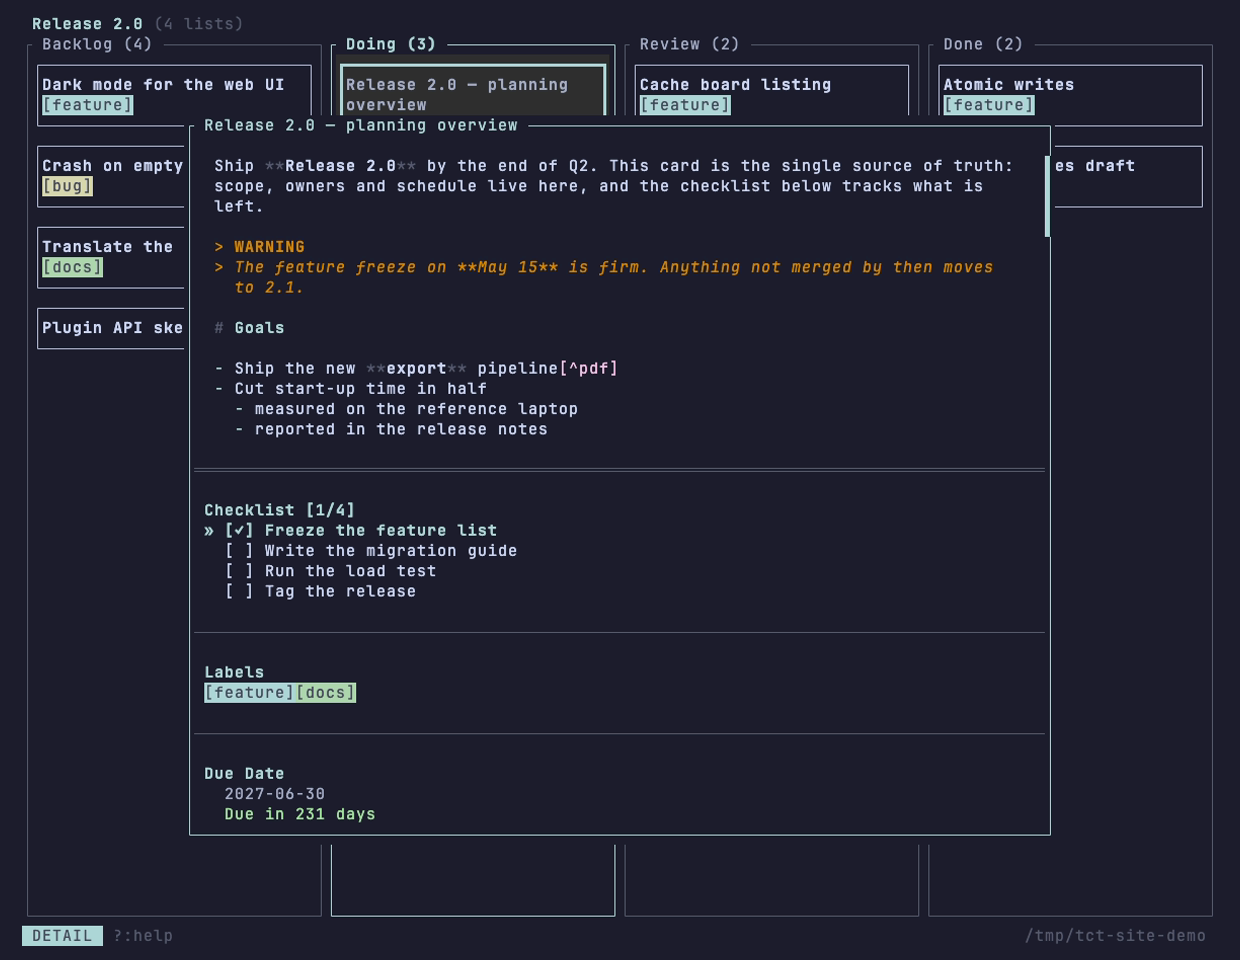
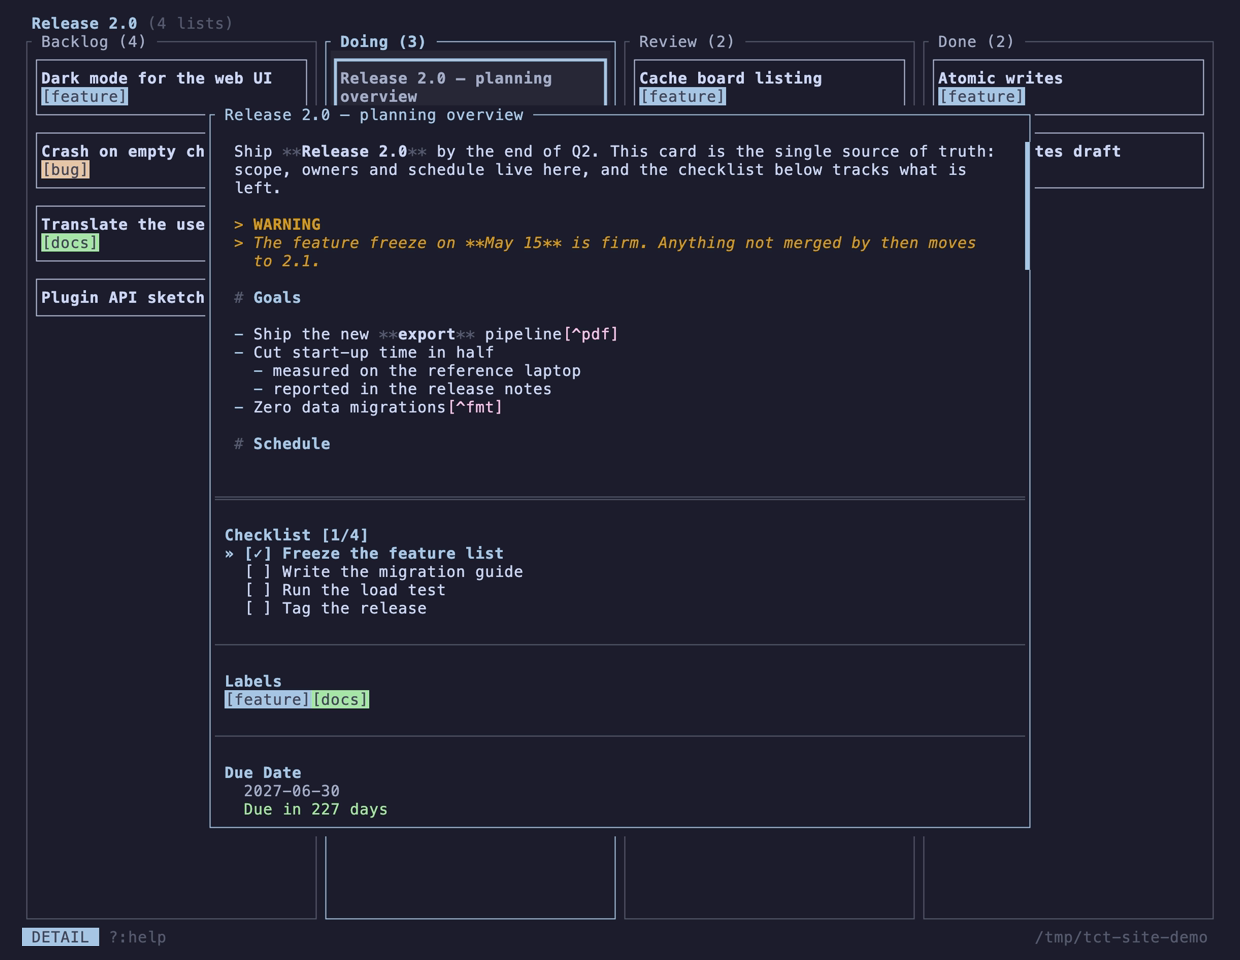
prepare release

diff --git a/src/export/pdf/tests/corner_cases.rs b/src/export/pdf/tests/corner_cases.rs
@@ -592,3 +592,64 @@ fn example_pdfs_are_up_to_date() {
         "stale example PDFs (run `TZ=UTC cargo test write_example_pdfs -- --ignored`): {stale:#?}"
     );
 }
+
+/// Regenerates `site/export/showcase-{mono,color}.pdf` with static timestamps:
+/// `TZ=Europe/Berlin cargo test write_showcase_pdfs -- --ignored`.
+#[test]
+#[ignore = "writes files into site/export/"]
+fn write_showcase_pdfs() {
+    use crate::model::label::{Label, LabelColor};
+
+    const SHOWCASE_VERSION: &str = "snap-2026-11-11";
+    const SHOWCASE_TIME: chrono::DateTime<chrono::Utc> =
+        chrono::DateTime::from_timestamp(1_794_412_297, 0).unwrap();
+
+    let mut meta = BoardMeta::new("Release 2.0".into());
+    meta.accent_color = LabelColor::generate_pastel(&[]);
+    let mut existing = Vec::new();
+    let mut label_ids = Vec::new();
+    for name in ["feature", "bug", "docs"] {
+        let color = LabelColor::generate_pastel(&existing);
+        existing.push(color);
+        let label = Label::new(name.into(), color);
+        label_ids.push(label.id.clone());
+        meta.labels.push(label);
+    }
+
+    let mut card = Card::new("Release 2.0 — planning overview".into());
+    card.description = include_str!("../../../../site/showcase/description.md").into();
+    card.due_date = chrono::NaiveDate::from_ymd_opt(2027, 6, 30);
+    card.label_ids = vec![label_ids[0].clone(), label_ids[2].clone()];
+    card.checklist = [
+        ("Freeze the feature list", true),
+        ("Write the migration guide", false),
+        ("Run the load test", false),
+        ("Tag the release", false),
+    ]
+    .into_iter()
+    .map(|(text, completed)| ChecklistItem {
+        text: text.into(),
+        completed,
+    })
+    .collect();
+    card.created_at = SHOWCASE_TIME;
+    card.updated_at = SHOWCASE_TIME;
+
+    let out_dir = std::path::Path::new(env!("CARGO_MANIFEST_DIR")).join("site/export");
+    std::fs::create_dir_all(&out_dir).unwrap();
+    for (theme, name) in [
+        (Theme::Mono, "showcase-mono.pdf"),
+        (Theme::Color, "showcase-color.pdf"),
+    ] {
+        let pdf = render_at(
+            &meta,
+            "Doing",
+            &card,
+            theme,
+            SHOWCASE_TIME,
+            SHOWCASE_VERSION,
+        )
+        .unwrap();
+        std::fs::write(out_dir.join(name), pdf).unwrap();
+    }
+}
